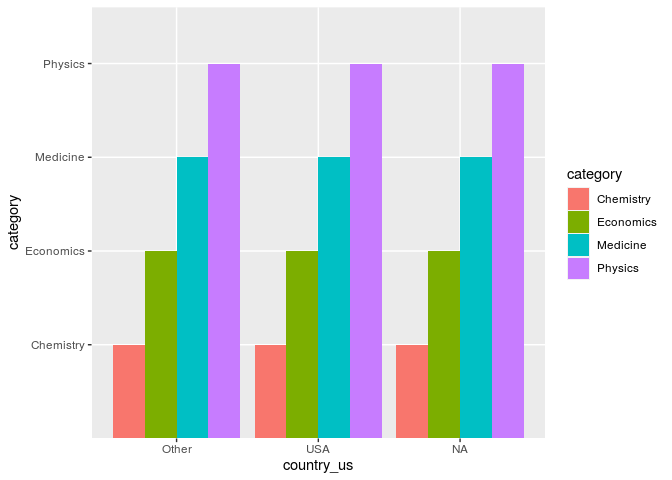
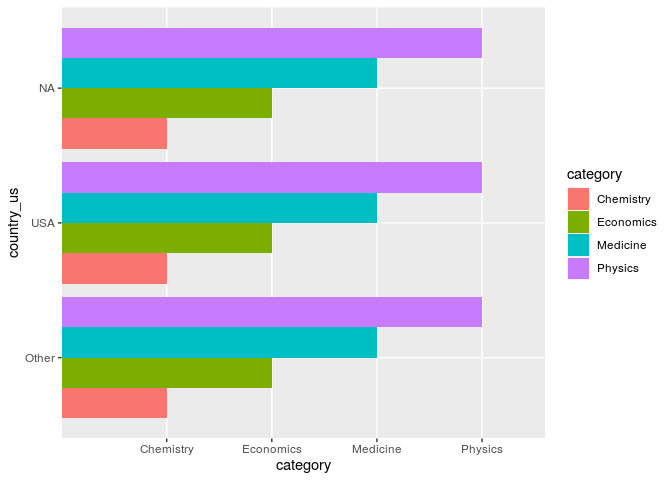
EX:3

diff --git a/lab-05.md b/lab-05.md
@@ -103,8 +103,9 @@ your Git pane is cleared up afterwards.d*
 
 ``` r
 nobel_living_science %>%
-ggplot(aes(x = country_us, y=category, fill =category)) +
-geom_bar(stat = "identity" , position = "dodge" , orientation="horizontal" )
+ggplot(aes(x = country_us,y=category, fill =category)) +
+geom_bar(stat = "identity", position = "dodge") +
+coord_flip()
 ```
 
 ![](lab-05_files/figure-gfm/unnamed-chunk-6-1.png)<!-- -->
